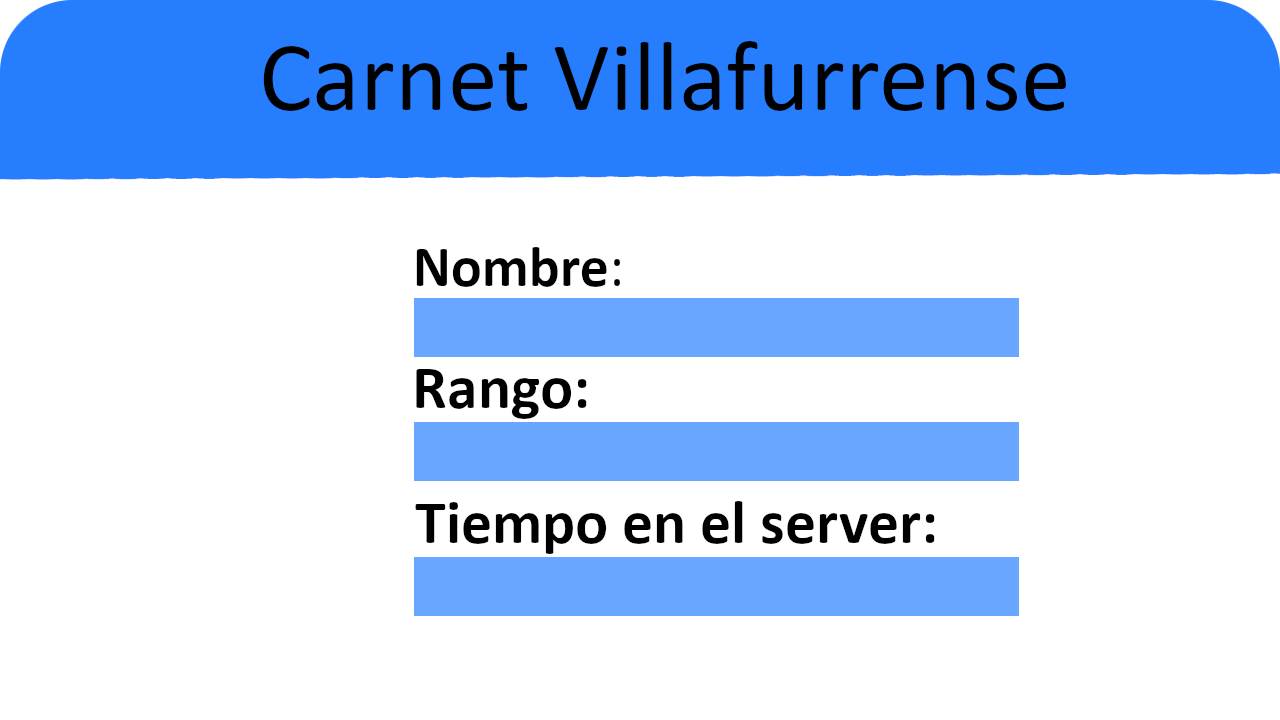
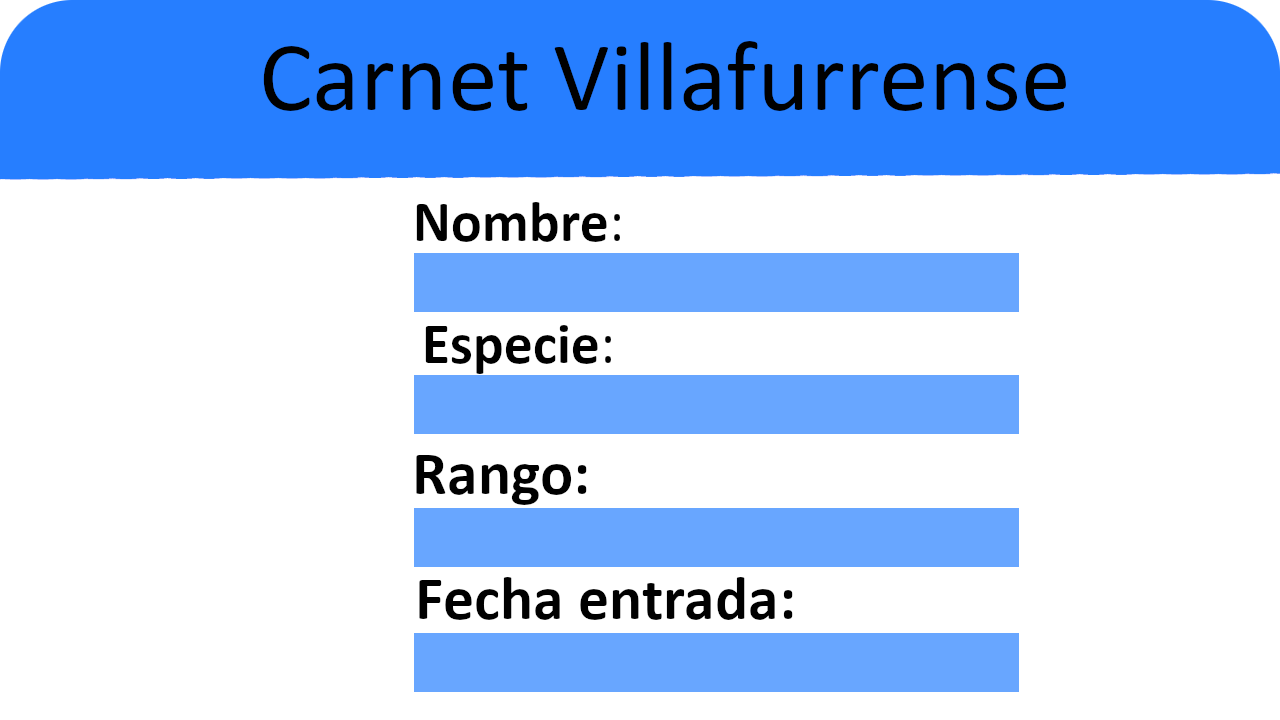
añadido especie a carnet y modificado diseño

Changed region(s): [[0.3125, 0.275, 0.8125, 0.9778]]

diff --git a/cogs/utilities.py b/cogs/utilities.py
@@ -74,39 +74,45 @@ class utilities(commands.Cog):
     async def carne(self,context, *,user : discord.Member=None):
         """Muestra tu carnet como miembro de Villa Furrense
         """
+        # TODO: Add species
+        # TODO: If there's no rank, write 'admin'
 
         # Get user info
         usr=get_user(context, user)
         name=usr.display_name
-        rango=str(get_user_ranks(usr))
+        species=get_user_species(usr)
+        rango=get_user_ranks(usr)
+        print(species) 
         roles=get_user_roles(usr)
         fecha=str(usr.joined_at)
         fecha=fecha.split()
-        print('0')
+
+
         var = "wget -O %s%s %s" % (memeTemplatesPath, '01'+".webp", usr.avatar_url)
         os.system(var)
         # get_user_avatar(usr,'01')
         convert_pic(memeTemplatesPath+'01.webp','01',300)
-        print('1')
-        print('2')
         user_avatar=memeTemplatesPath+'01.png'
         avatar=Image.open(user_avatar)
+
         # Open carnet to draw
         output = Image.open("carnet.png").convert("RGBA")
         draw = ImageDraw.Draw(output)
         font = ImageFont.truetype(memeTemplatesPath + "Calibri.ttf", 50)
 
         # Draw name
-        draw.text(((415,303)),name,font=font,fill=(0,0,0,255))
+        draw.text(((420,260)),name,font=font,fill=(0,0,0,255))
+
+        # Draw species
+        draw.text(((420,384)),species,font=font,fill=(0,0,0,255))
 
         # Draw rank
-        draw.text(((415,430)),rango,font=font,fill=(0,0,0,255))
+        draw.text(((420,518)),rango,font=font,fill=(0,0,0,255))
 
         # Draw time in server
-        draw.text(((415,563)),fecha[0],font=font,fill=(0,0,0,255))
+        draw.text(((420,642)),fecha[0],font=font,fill=(0,0,0,255))
 
 
-        print('3')
         # Add avatar
         output.paste(avatar, (50,300))
 

diff --git a/cogs/functions.py b/cogs/functions.py
@@ -25,6 +25,7 @@ tests_channel = int(os.getenv("TESTS_CHANNEL"))
 
 
 # Variables
+species=['Protogen', 'Lobo', 'Turiano', 'Zorro','Ampwave','Skull','Erizo','Murciélago','Híbrido','Gato','Dragón','Tortuga','Cabra']
 rank = "Furrense "  # key word to distinguish ranks from other roles
 separator = "       "  # key word to distinguish separator roles
 jojos = [
@@ -258,6 +259,27 @@ def get_user_roles(user: discord.Member):
 
     b = ", ".join(mention)
     return str(b)
+
+
+def get_user_species(user: discord.Member):
+    """Get user roles that are species
+
+    Args:
+        user (discord.Member): [user to search for roles]
+
+    Returns:
+        [str]: [String containing roles]
+    """
+    mention = []
+    for role in user.roles:
+        if (
+            role.name != "@everyone"
+            and str(role) in species
+        ):
+            mention.append(role.mention)
+
+    b = ", ".join(mention)
+    return b
 
 
 # checks if message author is owner of the bot
